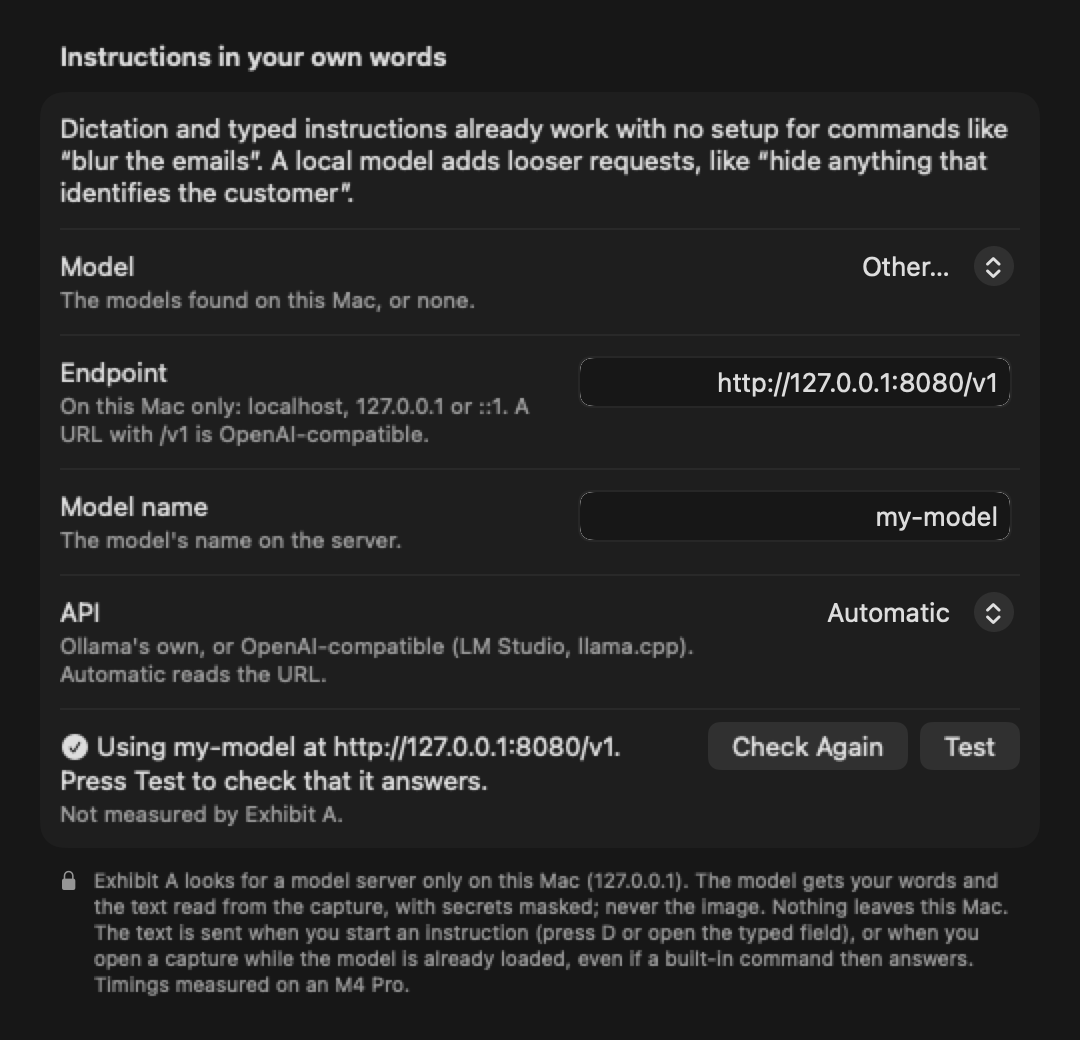
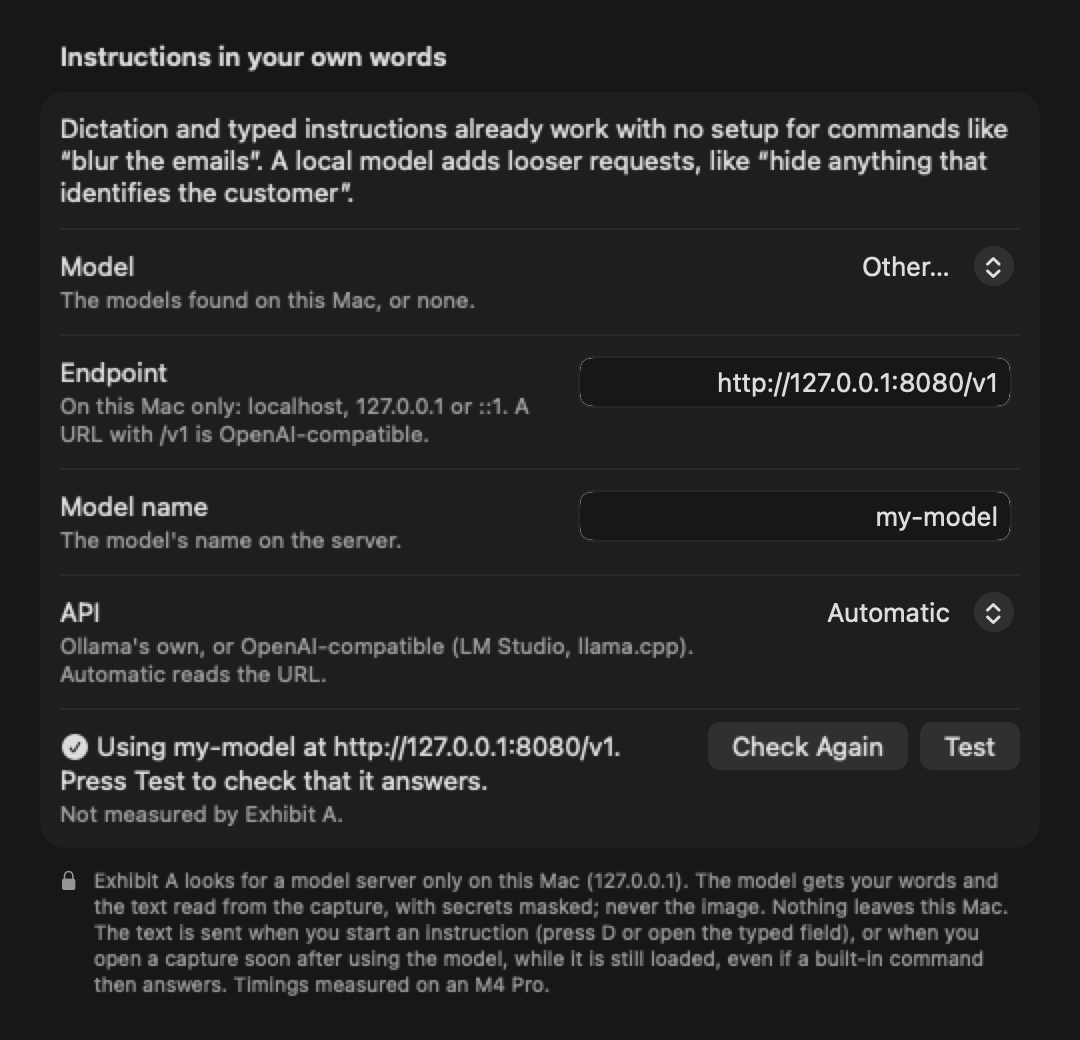
Say the text is sent at open only soon after using the model
Renders regenerated.

Refs #28

Changed region(s): [[0.0917, 0.8923, 0.7944, 0.9538], [0.825, 0.8923, 0.9167, 0.9538]]

diff --git a/App/Settings/FreeFormSection.swift b/App/Settings/FreeFormSection.swift
@@ -37,7 +37,8 @@ struct FreeFormSection: View {
             Label("Exhibit A looks for a model server only on this Mac (127.0.0.1). The model gets your words and the "
                   + "text read from the capture, with secrets masked; never the image. Nothing leaves this Mac. The "
                   + "text is sent when you start an instruction (press D or open the typed field), or when you open a "
-                  + "capture while the model is already loaded, even if a built-in command then answers. Timings "
+                  + "capture soon after using the model, while it is still loaded, even if a built-in command then "
+                  + "answers. Timings "
                   + "measured on an M4 Pro.",
                   systemImage: "lock.fill")
                 .font(.caption).foregroundStyle(.secondary)
